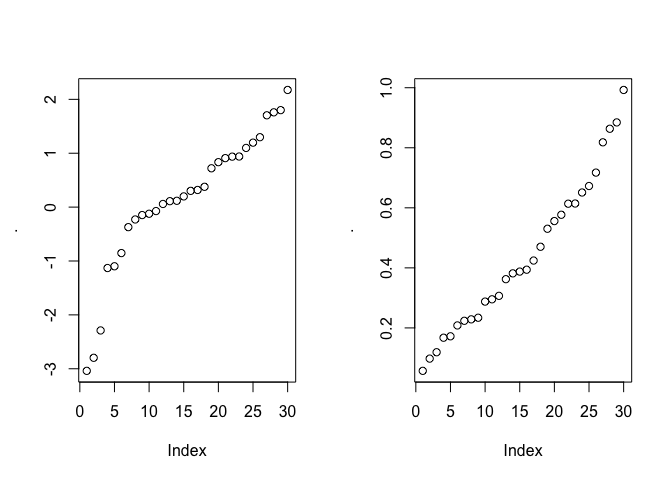
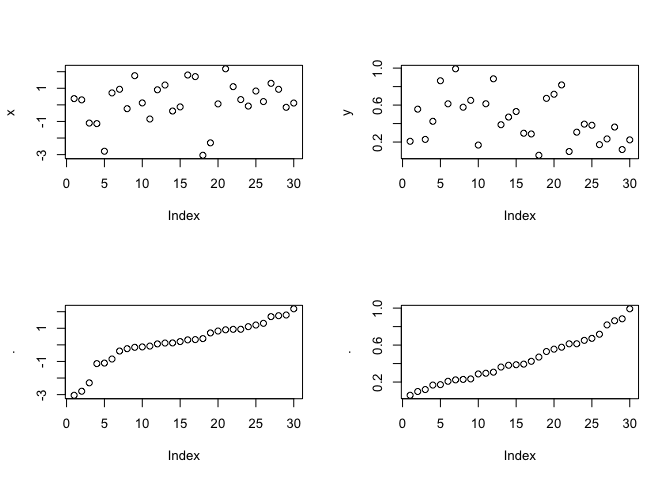
add map

diff --git a/_posts/2020-12-29-pipe-functions.md b/_posts/2020-12-29-pipe-functions.md
@@ -39,11 +39,13 @@ Let’s use it to plot two randomly generated variables:
     x <- rnorm(30)
     y <- runif(30)
 
-    par(mfrow = c(1,2))
-    rank_plot(x)
+    par(mfrow = c(2,2))
+    plot(x) #x data in original order
+    plot(y) # y data in original order
+    rank_plot(x) #rank ordered data
     rank_plot(y)
 
-![](/images/blogs-2020/2020-12-29-pipe-functions_files/figure-markdown_strict/unnamed-chunk-2-1.png)
+![](2020-12-29-pipe-functions_files/figure-markdown_strict/unnamed-chunk-2-1.png)
 
 Maps
 ----
@@ -79,16 +81,15 @@ Now to the maps. First, let’s make a function out of a tmap call:
 
     ## Linking to GEOS 3.8.1, GDAL 3.1.1, PROJ 6.3.1
 
-    tmap_mode("view")
-
-    ## tmap mode set to interactive viewing
-
-    tmap_options(basemaps = c(Canvas = "Esri.WorldTopoMap"))
-
     mymap <- . %>%
       st_as_sf(coords = c("Longitude", "Latitude")) %>%
       {tm_shape(.) +
       tm_markers()}
+
+If you want the map to be interactive, do this next:
+
+    tmap_mode("view")
+    tmap_options(basemaps = c(Canvas = "Esri.WorldTopoMap"))
 
 The function first converts the csv to a spatial points (st\_points)
 object, then maps that data. Note I had to wrap the map in `{}` to
@@ -99,14 +100,11 @@ Now we can use it to map any of our dataframes. For instance:
     # mymap(amanita)
     mymap(psilocybe)
 
-    ## Warning: Currect projection of shape . unknown. Long-lat (WGS84) is assumed.
+![](2020-12-29-pipe-functions_files/figure-markdown_strict/screen-shot-map.png)
 
-    ## PhantomJS not found. You can install it with webshot::install_phantomjs(). If it is installed, please make sure the phantomjs executable can be found via the PATH variable.
 
-<!--html_preserve-->
+(This is a screen shot, but if you do this yourself it will be interactive)
 
[1 lines of base64/hex data omitted]
-<!--/html_preserve-->
 
 Conclusion
 ----------
@@ -116,7 +114,7 @@ very useful in situations where we pipe a series of `dplyr` functions to
 wrangle a dataset. They could be combined with loops, `apply` or
 `pmap::map` to repeat the call for different dataset.
 
-One thing that irks me with `%>%` is debugging is very hard. So a word
+One thing that I find challenging with `%>%` is debugging is very hard. So a word
 of warning, keep your pipes short and simple so they are easy to debug
 (or use on of the specialist pipe debugging packages).
 
